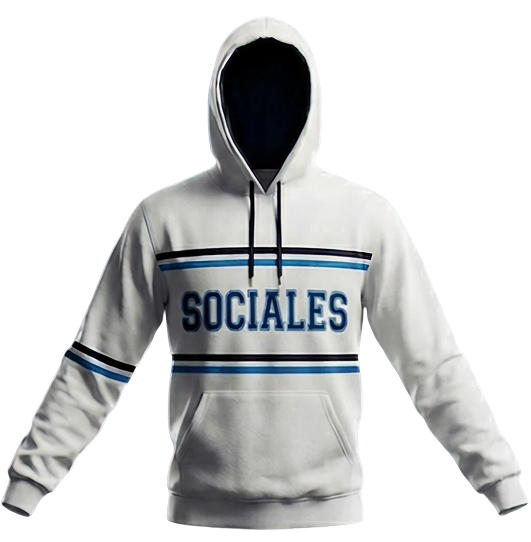
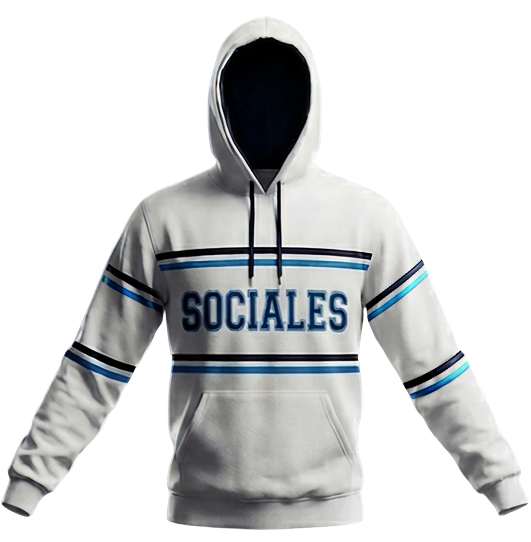
Fix: General changes to the app

Changed region(s): [[0.6629, 0.4723, 0.8136, 0.5904], [0.7533, 0.6494, 0.904, 0.738], [0.1808, 0.4723, 0.3315, 0.5904]]

diff --git a/src/app/pages/ContactUs.tsx b/src/app/pages/ContactUs.tsx
@@ -5,67 +5,67 @@ import RetroButton from '../components/RetroButton';
 export default function ContactUs() {
   const openWhatsApp = () => {
     // Reemplaza este número con tu número de WhatsApp real
-    const phoneNumber = "1234567890"
+    const phoneNumber = "[phone redacted]"
     const message = "Hola, me gustaría obtener más información."
     const whatsappUrl = `https://wa.me/${phoneNumber}?text=${encodeURIComponent(message)}`
     window.open(whatsappUrl, "_blank")
   }
 
   return (
-      <main className="bg-surf-white">
+    <main className="bg-surf-white">
 
-        <img src="/back pagina.png" alt="background" className='absolute top-10 left-10 w-[35%] object-cover z-0 opacity-15' />
-        
-        <div className="container mx-auto relative font-poppins flex items-center w-screen py-6 px-6">
-          <div className="h-full pt-32 w-full flex flex-col items-center justify-center">
-            <h1 className="text-7xl md:text-8xl tracking-wide text-stroke-blue leading-none font-surf-font text-center mb-2 text-surf-lightblue">Nuestro Whatsapp</h1>
-            <p className="text-center text-xl font-medium mb-4">Estamos aquí para ayudarte. ¡Escríbenos!</p>
+      <img src="/back pagina.png" alt="background" className='absolute top-10 left-10 w-[35%] object-cover z-0 opacity-15' />
 
-            <div className="grid grid-cols-1 md:grid-cols-2 gap-16 md:gap-50">
+      <div className="container mx-auto relative font-poppins flex items-center w-screen py-6 px-6">
+        <div className="h-full pt-32 w-full flex flex-col items-center justify-center">
+          <h1 className="text-7xl md:text-8xl tracking-wide text-stroke-blue leading-none font-surf-font text-center mb-2 text-surf-lightblue">Nuestro Whatsapp</h1>
+          <p className="text-center text-xl font-medium mb-4">Estamos aquí para ayudarte. ¡Escríbenos!</p>
 
-              {/* Contacto por WhatsApp */}
-              <div className="flex flex-col items-center justify-center">
-                <Card className="bg-gradient-to-br from-green-50 to-green-100 border-green-200 rounded-xl shadow-xl py-10 md:p-8 md:py-14">
-                  <CardContent className="flex flex-col items-center justify-center h-full">
-                    <div className="mb-6">
-                      <div className="w-20 h-20 bg-green-500 rounded-full flex items-center justify-center mb-4 mx-auto">
-                        <FaWhatsapp className="h-12 w-12 text-white" />
-                      </div>
-                      <h2 className="text-xl font-semibold text-center text-green-600 pt-4">Contáctanos por WhatsApp</h2>
-                      <p className="text-center text-muted-foreground mb-6">
-                        Respuesta rápida y directa a través de WhatsApp. Estamos disponibles para atenderte.
-                      </p>
+          <div className="grid grid-cols-1 md:grid-cols-2 gap-16 md:gap-50">
+
+            {/* Contacto por WhatsApp */}
+            <div className="flex flex-col items-center justify-center">
+              <Card className="bg-gradient-to-br from-green-50 to-green-100 border-green-200 rounded-xl shadow-xl py-10 md:p-8 md:py-14">
+                <CardContent className="flex flex-col items-center justify-center h-full">
+                  <div className="mb-6">
+                    <div className="w-20 h-20 bg-green-500 rounded-full flex items-center justify-center mb-4 mx-auto">
+                      <FaWhatsapp className="h-12 w-12 text-white" />
+                    </div>
+                    <h2 className="text-xl font-semibold text-center text-green-600 pt-4">Contáctanos por WhatsApp</h2>
+                    <p className="text-center text-muted-foreground mb-6">
+                      Respuesta rápida y directa a través de WhatsApp. Estamos disponibles para atenderte.
+                    </p>
+                  </div>
+
+                  <div className="space-y-10 w-full">
+                    <div className="bg-white p-4 rounded-lg shadow-sm">
+                      <h3 className="font-medium mb-2 text-green-600">Horario de atención</h3>
+                      <p className="text-sm text-muted-foreground">Lunes a Viernes: 9:00 - 18:00</p>
+                      <p className="text-sm text-muted-foreground">Sábados: 9:00 - 13:00</p>
                     </div>
 
-                    <div className="space-y-10 w-full">
-                      <div className="bg-white p-4 rounded-lg shadow-sm">
-                        <h3 className="font-medium mb-2 text-green-600">Horario de atención</h3>
-                        <p className="text-sm text-muted-foreground">Lunes a Viernes: 9:00 - 18:00</p>
-                        <p className="text-sm text-muted-foreground">Sábados: 9:00 - 13:00</p>
-                      </div>
+                    <RetroButton
+                      onClick={openWhatsApp}
+                      className="w-full bg-green-400 hover:bg-green-500 p-3"
+                    >
+                      Chatear por WhatsApp
+                    </RetroButton>
 
-                      <RetroButton
-                        onClick={ openWhatsApp }
-                        className="w-full bg-green-400 hover:bg-green-500 p-3"
-                      >
-                        Chatear por WhatsApp
-                      </RetroButton>
-
-                      <p className="text-xs text-center text-muted-foreground">
-                        Te responderemos lo más pronto posible durante nuestro horario de atención.
-                      </p>
-                    </div>
-                  </CardContent>
-                </Card>
-              </div>
-
-              <div> 
-                <img src="/ContactPage/whatsapp.png" alt="Whatsapp" className="w-full h-full object-cover" />
-              </div>
-
+                    <p className="text-xs text-center text-muted-foreground">
+                      Te responderemos lo más pronto posible durante nuestro horario de atención.
+                    </p>
+                  </div>
+                </CardContent>
+              </Card>
             </div>
+
+            <div>
+              <img src="/ContactPage/whatsapp.png" alt="Whatsapp" className="w-full h-full object-cover" />
+            </div>
+
           </div>
         </div>
-      </main>
+      </div>
+    </main>
   )
 }

diff --git a/src/app/components/colegios.tsx b/src/app/components/colegios.tsx
@@ -1,13 +1,26 @@
 import { motion } from "framer-motion";
 import Logobg from "../../components/ui/logobg";
 
+
+
 const COLEGIOS_DATA = [
-    { name: "Colegio San José", logo: "/colegios/1.jpg" },
-    { name: "Instituto Santa María", logo: "/colegios/2.jpg" },
-    { name: "Colegio Nacional", logo: "/colegios/3.jpg" },
-    { name: "Escuela Técnica N°1", logo: "/colegios/4.jpg" },
-    { name: "Colegio del Sol", logo: "/colegios/5.jpeg" },
+    { name: "Instituto Padre Elizalde", logo: "/colegios/1.jpg" },
+    { name: "IPE Humanidades", logo: "/colegios/2.jpg" },
+    { name: "Colegio Belgrano Ecuador", logo: "/colegios/3.jpg" },
+    { name: "Instituto Gabriela Mistral", logo: "/colegios/4.jpg" },
+    { name: "Inmaculada Concepción Lanús", logo: "/colegios/5.jpeg" },
     { name: "Instituto Belgrano", logo: "/colegios/6.jpeg" },
+
+    { name: "Ceferino Namuncura Boulogne", logo: "/colegios/ceferino namuncura boulogne.jfif" },
+    { name: "Colegio de los Buenos Aires Pilar", logo: "/colegios/colegio de los buenos aires pilar.jfif" },
+    { name: "Colegio Racing Club", logo: "/colegios/colegio racing club.jfif" },
+    { name: "ICEA San Martin", logo: "/colegios/icea san martin.jfif" },
+    { name: "Instituto General Jose de San Martin Jose C Paz", logo: "/colegios/instituto general jose de san martin jose c paz.jfif" },
+    { name: "IPET - Laboulaye - Córdoba", logo: "/colegios/laboulaye ipet.jfif" },
+    { name: "Salto Buenos Aires", logo: "/colegios/salto buenos aires.jfif" },
+    { name: "San Antonio Oeste Rio Negro", logo: "/colegios/san antonio oeste rio negro.jfif" },
+    { name: "Villa Carlos Paz", logo: "/colegios/villa carlos paz.jfif" },
+
 ];
 
 export default function Colegios() {
@@ -29,10 +42,10 @@ export default function Colegios() {
                     animate={{ x: ["0%", "-50%"] }}
                     transition={{
                         repeat: Infinity,
-                        duration: 30,
+                        duration: 100,
                         ease: "linear"
                     }}
-                    whileHover={{ transition: { duration: 60 } }} // Slow down on hover
+                    whileHover={{ transition: { duration: 100 } }} // Slow down on hover
                 >
                     {duplicatedData.map((colegio, index) => (
                         <div key={index} className="flex flex-col items-center min-w-[180px] md:min-w-[220px]">

diff --git a/src/app/components/productList.ts b/src/app/components/productList.ts
@@ -19,7 +19,7 @@ export const products: Product[] = [
   },
   {
     id: 2,
-    text: "BUZO Polo",
+    text: "BUZO POLO",
     Description: "Buzo friza invisible a 3 colores, combinado en mangas recortes horizontales y en capucha - Bordado. Capucha forrada y puños a tono.",
     category: ["buzos"],
     image: "/Clothes/buzo/buzo_Polo.jpeg",
@@ -28,7 +28,7 @@ export const products: Product[] = [
   {
     id: 3,
     text: "BUZO ALMA",
-    Description: "Buzo friza invisible a 3 colores, combinado en mangas recortes ver􀆟cales - Bordado. Capucha forrada y puños a tono.",
+    Description: "Buzo friza invisible a 3 colores, combinado en mangas recortes verticales - Bordado. Capucha forrada y puños a tono.",
     category: ["buzos"],
     image: "/Clothes/buzo/buzo_ALMA.jpeg",
     imgsmolde: "/Clothes/buzo/molde_ALMA.png",
@@ -60,7 +60,7 @@ export const products: Product[] = [
   {
     id: 7,
     text: "BUZO MARTU",
-    Description: "Buzo friza invisible a 3 colores, combinado en mangas recortes horizontales, ver􀆟cales y en capucha – Bordado y estampado. Capucha forrada y puños a tono. Manga Raglan.",
+    Description: "Buzo friza invisible a 3 colores, combinado en mangas recortes horizontales, verticales y en capucha – Bordado y estampado. Capucha forrada y puños a tono. Manga Raglan.",
     category: ["buzos"],
     image: "/Clothes/buzo/buzo_MARTU.jpeg",
     imgsmolde: "/Clothes/buzo/molde_MARTU.png",
@@ -68,7 +68,7 @@ export const products: Product[] = [
   {
     id: 8,
     text: "BUZO PILI",
-    Description: "Buzo friza invisible a 2 colores, combinado en mangas recortes horizontales y en cuerpo recortes ver􀆟cales - Bordado. Capucha forrada y puños a tono.",
+    Description: "Buzo friza invisible a 2 colores, combinado en mangas recortes horizontales y en cuerpo recortes verticales - Bordado. Capucha forrada y puños a tono.",
     category: ["buzos"],
     image: "/Clothes/buzo/buzo_PILI.jpeg",
     imgsmolde: "/Clothes/buzo/molde_PILI.png",
@@ -76,7 +76,7 @@ export const products: Product[] = [
   {
     id: 9,
     text: "BUZO ZOE",
-    Description: "Buzo friza invisible a 3 colores, combinado en mangas y cuerpo con recortes ver􀆟cales - Bordado. Capucha forrada y puños a tono.",
+    Description: "Buzo friza invisible a 3 colores, combinado en mangas y cuerpo con recortes verticales - Bordado. Capucha forrada y puños a tono.",
     category: ["buzos"],
     image: "/Clothes/buzo/buzo_ZOE.jpeg",
     imgsmolde: "/Clothes/buzo/molde_ZOE.png",

diff --git a/src/app/components/FAQSection.tsx b/src/app/components/FAQSection.tsx
@@ -9,7 +9,7 @@ type Questions = {
 const questions = [
   {
     id: "1",
-    question: "¿Como contratamos el servicio?",
+    question: "¿Cómo contratamos el servicio?",
     answer:
       "Una vez que se deciden por nosotros, se arma un grupo de WhatsApp de 5 integrantes (papas y alumnos) -siempre debe haber un mayor-. Sumamos 2 teléfonos de la empresa. Por este grupo va a circular TODA la información. Se firma un contrato grupal con todos los datos, garantías, pagos y fecha de entrega."
   },
@@ -21,7 +21,7 @@ const questions = [
   },
   {
     id: "3",
-    question: "¿Como pedimos el diseño que nos interesa?",
+    question: "¿Cómo pedimos el diseño que nos interesa?",
     answer:
       "Una vez que firman el contrato la diseñadora les va armando varios modelos para que voten, se aprueba el diseño final y este es el que se adjunta al contrato como definitivo.  El diseño no se considera aprobado hasta que en el grupo de WhatsApp no figura como tal."
   },
@@ -33,7 +33,7 @@ const questions = [
   },
   {
     id: "5",
-    question: "¿Como se toman los talles?",
+    question: "¿Cómo se toman los talles?",
     answer:
       "Hay dos maneras, se les envía una curva de talles de cada prenda y se dejan unos días para que se prueben; o se les envía una planilla con las medidas de las prendas terminadas y la explicación para tomar las medidas sobre una prenda propia."
   },

diff --git a/src/app/components/Hero.tsx b/src/app/components/Hero.tsx
@@ -17,11 +17,11 @@ export default function Hero() {
           img="/hero/front2.png"
         />
         <Box
-          description="Tejidos de alta calidad"
+          description="Terminaciones premium"
           img="/hero/front1.png"
         />
         <Box
-          description="Tejidos de alta calidad"
+          description="Avíos resistentes"
           img="/hero/front3.png"
         />
       </div>

diff --git a/src/app/components/hww.tsx b/src/app/components/hww.tsx
@@ -12,11 +12,11 @@ export default function HWW() {
                 <p className=" text-center mb-5">
                     Nos reunimos con los estudiantes y los padres para definir el diseño ideal, elegir el modelo y asegurarnos de que cada detalle quede exactamente como lo quieren. <br />
                     <br />
-                    Trabajamos con diseñadores y un proceso de produccion que garantiza prendas de calidad, con entrega segura en todo el pais
+                    Trabajamos con diseñadores y un proceso de producción que garantiza prendas de calidad, con entrega segura en todo el país
                 </p>
                 <div className="w-full flex gap-5 justify-center">
 
-                    <RetroButton text="Descargar plantillas" bgColor="blue" className="p-4" url="/" />
+                    <RetroButton text="Descargar plantillas" bgColor="blue" className="p-4" url="/plantillas" />
                     <RetroButton text="Ver Mas" bgColor="red" className="p-4" url="/productos" />
                 </div>
             </div>

diff --git a/src/app/components/inspiracion.tsx b/src/app/components/inspiracion.tsx
@@ -4,9 +4,9 @@ export default function Inspiracion() {
     return (
         <section className="bg-[url('/inspiracion.png')] bg-cover bg-center flex h-[80vh] w-screen my-3">
 
-            <div className="w-[45%] h-full p-5 flex flex-col gap-3 justify-end items-end bg-[linear-gradient(240deg,_rgba(255,_255,_255,_0.20)_29.78%,_rgba(153,_153,_153,_0.20)_94.02%)] backdrop-filter backdrop-blur-[7px] ">
+            <div className="w-[45%] h-full p-5 flex flex-col gap-3 justify-end items-end backdrop-filter backdrop-blur-[10px] backdrop-brightness-50 ">
                 <h1 className="text-white font-bold text-5xl text-right">¿Buscando inspiración?</h1>
-                <p className="text-white font-poppins text-xl text-right">No te preocupes, te mostramos algunas de las experiencias que han vivido nuestros egresados en sus viajes de egresados</p>
+                <p className="text-white font-poppins text-xl text-right">Explora diseños, combinaciones y estilos para crear juntos la campera que los va a identificar.</p>
                 <RetroButton text="Ver Mas" bgColor="red" className="p-4" url="/productos" />
             </div>
         </section>

diff --git a/src/app/components/WhatsAppWidget.tsx b/src/app/components/WhatsAppWidget.tsx
@@ -1,7 +1,7 @@
 import { FaWhatsapp } from "react-icons/fa";
 
 export default function WhatsAppWidget() {
-  const phoneNumber = "[phone redacted]";
+  const phoneNumber = "[phone redacted]";
   const message = "¡Hola! Me gustaría recibir más información.";
   const whatsappUrl = `https://wa.me/${phoneNumber.replace(/\+/g, "")}?text=${encodeURIComponent(message)}`;
 

diff --git a/src/app/components/mapa.tsx b/src/app/components/mapa.tsx
@@ -1,6 +1,6 @@
 export default function Mapa() {
     return (
-        <div className="flex bg-[url('mapa.png')] h-[50vh] w-full bg-cover bg-center">
+        <div className="flex bg-[url('/mapa.png')] h-[50vh] w-full bg-cover bg-center">
             <div className="w-[45%] h-[100%] p-5 flex flex-col gap-3 justify-center items-end bg-[linear-gradient(240deg,_rgba(255,_255,_255,_0.20)_29.78%,_rgba(153,_153,_153,_0.20)_94.02%)] backdrop-filter backdrop-blur-[7px] ">
                 <h1 className="text-white font-bold text-5xl text-right">Envíos a todo el país</h1>
 

diff --git a/src/app/components/trabajos.tsx b/src/app/components/trabajos.tsx
@@ -35,7 +35,7 @@ const Trabajos = () => {
             image: "trabajos/features2.png",
         },
         {
-            title: "Sin limite para la creatividad",
+            title: "Sin límite para la creatividad",
             image: "trabajos/features3.png",
         }
     ];